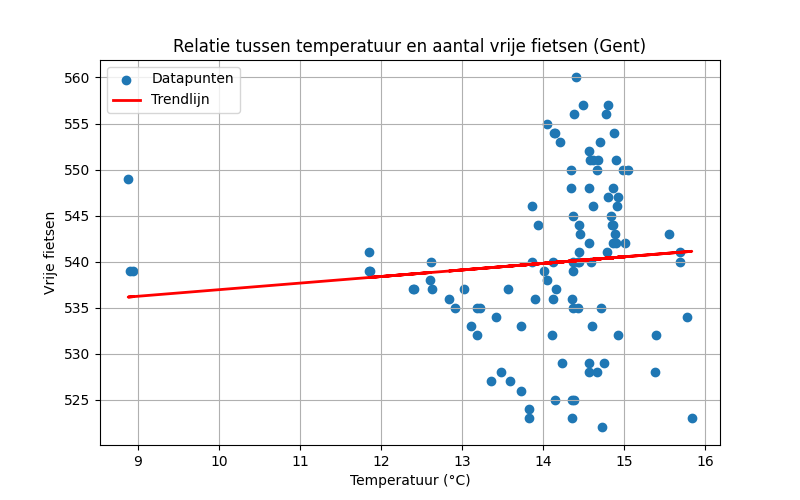
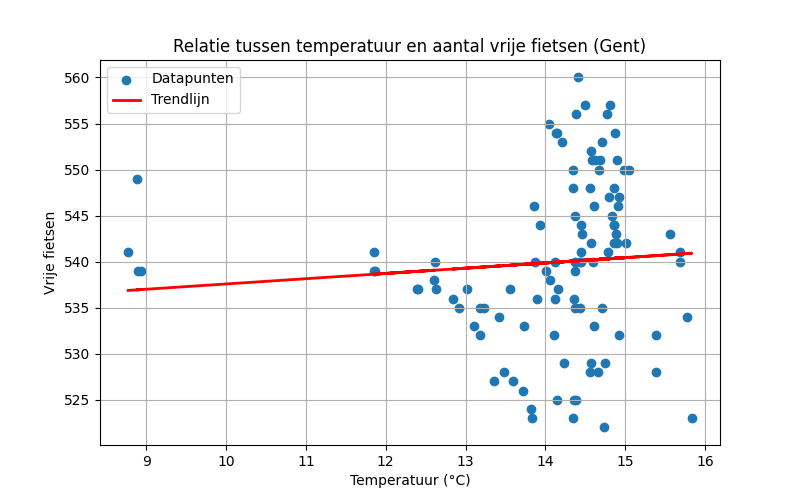
Automatische update 2025-11-16 12:00:12

diff --git a/reports/report.md b/reports/report.md
@@ -1,16 +1,16 @@
 # Data Workflow Rapport
 
-**Gegenereerd op:** 2025-11-16 11:45:11.103168
+**Gegenereerd op:** 2025-11-16 12:00:11.476451
 
 ## Grafiek: Vrije fietsen vs Temperatuur
 ![Fietsen vs Temp](fiets_vs_temp.png)
 
 ## Basisstatistieken
-- Gemiddelde temperatuur: 14.08 °C
+- Gemiddelde temperatuur: 14.03 °C
 - Gemiddeld aantal vrije fietsen: 540
 - Gemiddeld aantal fietsen overdag (07-19u): 538
 - Gemiddeld aantal fietsen ’s nachts (19-07u): 542
-- Correlatie: 0.10
+- Correlatie: 0.08
 
 ## Vrije fietsen per weekdag
 
